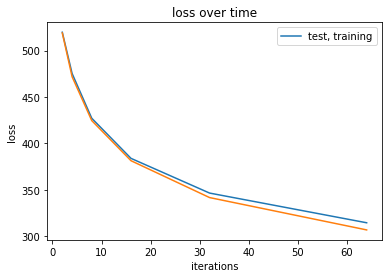
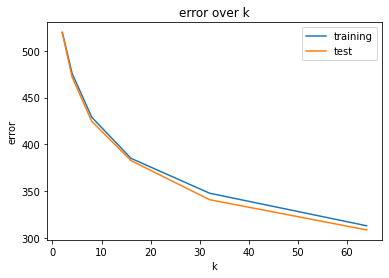
better figures? a5 wack

diff --git a/hw4/cse446hw4.tex b/hw4/cse446hw4.tex
@@ -816,185 +816,7 @@ print(b_test_loss)
 \newpage
 
 \begin{verbatim}
-# -*- coding: utf-8 -*-
-"""cse446_hw4_a5.ipynb
 
-Automatically generated by Colaboratory.
-
-Original file is located at
-    https://colab.research.google.com/drive/1SINxgwEQvCW2t4oVhfGCk7GH3LvjMkmZ
-"""
-
-# Commented out IPython magic to ensure Python compatibility.
-# A5
-# Imports
-
-# %matplotlib inline
-
-import os
-import numpy as np
-import matplotlib.pyplot as plt
-from mpl_toolkits.mplot3d import Axes3D
-
-from torchvision import datasets, transforms
-from torch.utils.data import DataLoader
-
-# Constants 
-
-k = 10
-k_set = [2, 4, 8, 16, 32, 64]
-# k_set = [10]
-
-# Helpers
-
-def plot_single(data, title):
-  print("plotting objective functions")
-
-  iterations = list(range(1, len(data) + 1))
-
-  plt.plot(iterations, data)
-
-  plt.title("objective function over time")
-  plt.xlabel("iterations")
-  plt.ylabel("objective function")
-
-  plt.savefig(title)
-
-def plot_loss(data, title):
-  print("plotting loss")
-
-  for item in data:
-    plt.plot(k_set, item)
-
-  plt.title("loss over time")
-  plt.xlabel("iterations")
-  plt.ylabel("loss")
-  plt.legend(["test, training"])
-
-  plt.savefig(title)
-
-# import MNIST
-
-train_data = datasets.MNIST(root="./data", train=True, download=True, transform=transforms.Compose([
-                               transforms.ToTensor(),
-                               transforms.Normalize(
-                                 (0.1307,), (0.3081,))
-                               ]))
-test_data = datasets.MNIST(root="./data", train=False, download=True, transform=transforms.Compose([
-                               transforms.ToTensor(),
-                               transforms.Normalize(
-                                 (0.1307,), (0.3081,))
-                               ]))
-
-train_loader = DataLoader(train_data, batch_size=len(train_data))
-test_loader = DataLoader(test_data, batch_size=len(test_data))
-
-train_data = next(iter(train_loader))[0].numpy()
-test_data = next(iter(test_loader))[0].numpy()
-
-def run_lloyd(data, k, function):
-  n = data.shape[0]
-
-  # initialize values
-  old_idx = np.zeros(n)
-  new_idx =  np.zeros(n)
-
-  centroids = data[np.random.choice(n, size=k, replace=False)]
-
-  result_list = []
-
-  iteration = 0
-  while True:
-    print("iteration " + str(iteration))
-
-    old_idx = np.copy(new_idx)
-    new_idx = classify(data, centroids)
-
-    centroids = recenter(data, new_idx, centroids)
-
-    # calculating objective/error  
-
-    if function == "b":
-      error = np.square(np.min(np.linalg.norm(data - centroids[new_idx], axis = data.ndim - 1)))
-      result_list.append(error)
-
-    if function == "c":
-      error = np.mean(np.square(np.min(np.linalg.norm(data - centroids[new_idx], axis = data.ndim - 1))))
-
-    # if no more changes, then break
-    if np.array_equal(old_idx, new_idx):
-      break
-
-    iteration +=1
-  
-  return centroids, result_list, error, iteration
-
-def classify(data, centroids):
-  print("classifying points to centroids")
-
-  closest_centroids = []
-
-  for point in data:
-    closest_centroids.append(np.argmin([np.linalg.norm(point - centroid) for centroid in centroids]))
-
-  return np.array(closest_centroids)
-
-def recenter(data, closest, centroids):
-  print("assigning centroids")
-  
-  new_centroids = []
-
-  for i, centroid in enumerate(centroids):
-    new_centroids.append(data[closest == i].mean(axis=0))
-
-  return np.array(new_centroids)
-
-def get_obj(data, centroids):
-  obj = ((np.square(np.linalg.norm(data - centroids[new_idx], axis = data.ndim - 1))).sum() / n)
-
-  return np.array(obj)
-
-centroids, obj_list, _, iteration = run_lloyd(train_data, k, "b")
-
-print(iteration)
-print(obj_list)
-
-# plot b
-plot_single(obj_list, "a5.png")
-
-# visualize centers
-
-fig, axes = plt.subplots(2, 5)
-axes_list = []
-for item in axes:
-  axes_list += list(item)
-
-for i, ax in enumerate(axes_list):
-  ax.imshow(centroids[i][0])
-
-train_error_final = []
-test_error_final = []
-
-train_iter_counts = []
-test_iter_counts = []
-
-for k_val in k_set:
-  _, _, last_train, train_iter = run_lloyd(train_data, k_val, "c")
-  _, _, last_test, test_iter = run_lloyd(test_data, k_val, "c")
-
-  train_error_final.append(last_train)
-  test_error_final.append(last_test)
-
-  train_iter_counts.append(train_iter)
-  test_iter_counts.append(test_iter)
-
-# plot c
-print(train_iter_counts)
-print(train_error_final)
-print(test_iter_counts)
-print(test_error_final)
-
-plot_loss([train_error_final, test_error_final], "a5_b.png")
 \end{verbatim}
 
 \newpage

diff --git a/hw4-code/src/cse446_hw4_a5.py b/hw4-code/src/cse446_hw4_a5.py
@@ -25,7 +25,6 @@ from torch.utils.data import DataLoader
 
 k = 10
 k_set = [2, 4, 8, 16, 32, 64]
-# k_set = [10]
 
 # Helpers
 
@@ -42,16 +41,16 @@ def plot_single(data, title):
 
   plt.savefig(title)
 
-def plot_loss(data, title):
+def plot_error(data, title):
   print("plotting loss")
 
   for item in data:
     plt.plot(k_set, item)
 
-  plt.title("loss over time")
-  plt.xlabel("iterations")
-  plt.ylabel("loss")
-  plt.legend(["test, training"])
+  plt.title("error over k")
+  plt.xlabel("k")
+  plt.ylabel("error")
+  plt.legend(["training", "test"])
 
   plt.savefig(title)
 
@@ -97,11 +96,14 @@ def run_lloyd(data, k, function):
     # calculating objective/error  
 
     if function == "b":
-      error = np.square(np.min(np.linalg.norm(data - centroids[new_idx], axis = data.ndim - 1)))
-      result_list.append(error)
+      error = np.sum(np.square(np.linalg.norm(data - centroids[new_idx], axis = data.ndim - 1)))
 
     if function == "c":
-      error = np.mean(np.square(np.min(np.linalg.norm(data - centroids[new_idx], axis = data.ndim - 1))))
+      square = np.square(np.linalg.norm(
+          data - centroids[new_idx], axis=data.ndim - 1))
+      sum = np.sum(square, axis=1)
+      sum = np.sum(sum, axis=1)
+      error = np.mean(np.min(sum))
 
     # if no more changes, then break
     if np.array_equal(old_idx, new_idx):
@@ -176,4 +178,4 @@ print(train_error_final)
 print(test_iter_counts)
 print(test_error_final)
 
-plot_loss([train_error_final, test_error_final], "a5_b.png")
+plot_error([train_error_final, test_error_final], "a5_b.png")
